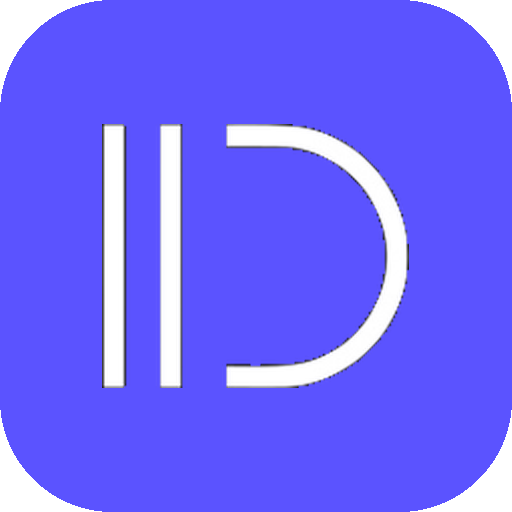
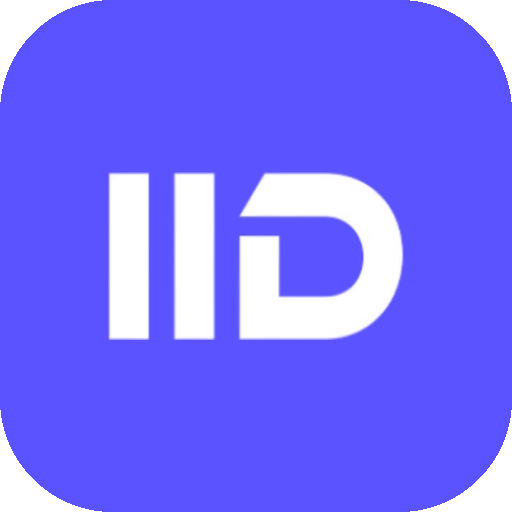
Brand: swap in the new bold ORCIID wordmark
Replaces the thin geometric wordmark everywhere it appears (site header and
footer, dashboard sidebar, login/register/forgot-password, legal and privacy)
— all of them read the same file, so the swap covers them in one go.

Favicons regenerated from the new mark's IID letterforms; the heavier weight
reads noticeably better at 16 and 32px than the thin version did.

Both variants are cropped to the artwork's alpha bounding box rather than by
colour-keying the background: these sources ship transparent, so keying against
the corner pixel treated the black wordmark as background and erased it.

Changed region(s): [[0.4375, 0.2188, 0.8125, 0.7812], [0.1875, 0.2188, 0.4375, 0.7812]]

diff --git a/backend/src/middleware/auth.middleware.js b/backend/src/middleware/auth.middleware.js
@@ -50,6 +50,41 @@ const requireSubscription = (plans = []) => {
   };
 };
 
+// Gate for the two actions that cost us money to run: connecting a channel and
+// creating a post. Signing up and looking around stays free; doing the work
+// needs a paid plan.
+//
+// Deliberately stricter than requireSubscription above, which also lets
+// TRIALING through: a trial is a look, not a licence. ADMINs are exempt so the
+// team can always operate the product they're selling.
+const PAID_STATUSES = ['ACTIVE'];
+
+const requirePaid = (req, res, next) => {
+  if (req.user?.role === 'ADMIN') return next();
+
+  const sub = req.user?.subscription;
+  const status = sub?.status;
+
+  if (PAID_STATUSES.includes(status)) return next();
+
+  const reason =
+    status === 'PAST_DUE'
+      ? 'Your last payment did not go through. Update your payment method to continue.'
+      : status === 'CANCELED'
+        ? 'Your subscription was cancelled. Choose a plan to continue.'
+        : 'Choose a plan to connect channels and publish posts.';
+
+  return res.status(402).json({
+    error: reason,
+    code: 'PAYMENT_REQUIRED',
+    status: status || 'NONE',
+  });
+};
+
+// Same rule, for flows that resolve the user themselves (OAuth callbacks) rather
+// than going through the authenticate middleware.
+const isPaidUser = (user) => user?.role === 'ADMIN' || PAID_STATUSES.includes(user?.subscription?.status);
+
 const requireAdmin = (req, res, next) => {
   if (req.user?.role !== 'ADMIN') {
     return res.status(403).json({ error: 'Admin access required' });
@@ -57,4 +92,4 @@ const requireAdmin = (req, res, next) => {
   next();
 };
 
-module.exports = { authenticate, requireSubscription, requireAdmin };
+module.exports = { authenticate, requireSubscription, requirePaid, isPaidUser, requireAdmin };
